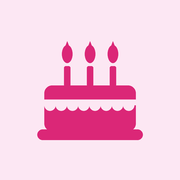
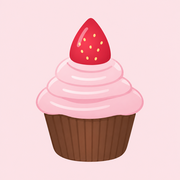
새 아이콘, 탭 줄·제목 줄 고정, 새로고침·BACK 버튼, 글꼴 줄, media v2
Claude-Session: https://claude.ai/code/session_017xK88kUsRgSTMmdWXH6KVr

Changed region(s): [[0.1944, 0.0833, 0.8056, 0.9167]]

diff --git a/index.html b/index.html
@@ -4,6 +4,7 @@
     <meta charset="UTF-8">
     <meta name="viewport" content="width=device-width, initial-scale=1.0">
     <title>MGWG - 마구와구 먹은 기록</title>
+    <script src="https://jjojjolonglong-sudo.github.io/mnmn/fonts.v1.js" data-app="mgwg"></script>
     <!-- 앱 설치(PWA) 설정 -->
     <link rel="manifest" href="manifest.webmanifest">
     <meta name="theme-color" content="#ffffff">
@@ -14,7 +15,7 @@
     <link rel="apple-touch-icon" href="apple-touch-icon.png">
     <link rel="icon" type="image/png" href="icon-192.png">
     <script src="https://jjojjolonglong-sudo.github.io/mnmn/config.js"></script>
-    <script src="https://jjojjolonglong-sudo.github.io/mnmn/media.v1.js"></script>
+    <script src="https://jjojjolonglong-sudo.github.io/mnmn/media.v2.js"></script>
     <!-- Tailwind CSS -->
     <script src="https://cdn.tailwindcss.com"></script>
     <!-- Google Fonts Inter -->
@@ -23,7 +24,7 @@
     <link rel="stylesheet" href="https://cdnjs.cloudflare.com/ajax/libs/font-awesome/6.4.0/css/all.min.css">
     <style>
         html, body {
-            overscroll-behavior-y: none; /* 1. 스크롤 텐션/바운스 현상 완전 제거 */
+            overscroll-behavior: none; /* 스크롤 끝 텐션(바운스)·당겨서 새로고침 막기 */
             -webkit-overflow-scrolling: touch;
         }
         body {
@@ -59,10 +60,8 @@
         @media (max-width: 1023px) {
             /* 디테일이 열리면 이미지 목록 숨김 */
             body.panel-open .list-col { display: none; }
-            body.panel-open main { padding-top: 0.25rem; padding-bottom: 0.5rem; }
-            body.panel-open .sub-head { padding-top: 0.375rem; padding-bottom: 0.375rem; margin-bottom: 0.25rem; }
-            body.panel-open .sub-head p { display: none; }
             body.panel-open [id$="SidePanel"] { margin-bottom: 0; }
+            .side-col:has(> .hidden) { display: none; } /* 패널이 닫혀 있으면 빈 칸 여백도 없애기 */
 
             .panel-card { padding: 0.25rem 0.875rem 0.875rem; }
             /* 제목 가운데 정렬 + 위 여백 축소 */
@@ -80,6 +79,12 @@
         #cr-sel{position:absolute;border:2px solid #fff;box-shadow:0 0 0 9999px #0008;cursor:move}
         #cr-rz{position:absolute;right:-9px;bottom:-9px;width:16px;height:16px;border-radius:50%;background:#db2777;border:2px solid #fff;cursor:nwse-resize}
         dialog::backdrop{background:#0006}
+        /* 상단(로고줄 64 + 탭줄 44 + 선 1) 고정, 제목줄은 그 바로 아래 고정 */
+        .sub-head{top:109px;height:68px;display:flex;align-items:center}
+        .sub-head>div{width:100%}
+        .side-col{top:189px}
+        .tabbtn{flex:1;height:32px;border-radius:.5rem;font-size:.75rem;font-weight:500;color:#737373}
+        .tabbtn.on{background:#fff;color:#171717;font-weight:600;box-shadow:0 1px 2px #0000000f}
     </style>
 </head>
 <body class="min-h-screen flex flex-col antialiased">
@@ -94,25 +99,27 @@
                 <span class="text-xl font-bold tracking-tight text-neutral-900">MGWG</span>
             </div>
 
-            <!-- Tab Navigation (항상 클릭 가능) -->
-            <nav class="flex space-x-1 bg-neutral-100 p-1 rounded-xl">
-                <button onclick="switchTab('ITEM')" id="tabItem" class="px-4 py-1.5 rounded-lg text-xs font-semibold bg-white text-neutral-900 shadow-xs transition-all">ITEM</button>
-                <button onclick="switchTab('SORT')" id="tabSort" class="px-4 py-1.5 rounded-lg text-xs font-medium text-neutral-500 hover:text-neutral-900 transition-all">SORT</button>
-                <button onclick="switchTab('STORE')" id="tabStore" class="px-4 py-1.5 rounded-lg text-xs font-medium text-neutral-500 hover:text-neutral-900 transition-all">STORE</button>
-            </nav>
             <div class="flex items-center gap-1">
                 <button id="migBtn" onclick="openMig()" class="hidden px-2 py-1.5 rounded-lg text-[11px] font-semibold bg-pink-50 text-pink-600 hover:bg-pink-100"><i class="fa-regular fa-images mr-1"></i><span id="migN"></span></button>
+                <button onclick="location.reload()" title="새로고침" class="w-8 h-8 rounded-lg text-neutral-400 hover:text-neutral-700 hover:bg-neutral-100 text-xs"><i class="fa-solid fa-rotate-right"></i></button>
                 <button onclick="logout()" title="로그아웃" class="w-8 h-8 rounded-lg text-neutral-400 hover:text-neutral-700 hover:bg-neutral-100 text-xs"><i class="fa-solid fa-right-from-bracket"></i></button>
             </div>
+        </div>
+        <div class="max-w-5xl mx-auto px-4 h-11">
+            <nav class="max-w-4xl mx-auto flex gap-1 bg-neutral-100 p-1 rounded-xl">
+                <button onclick="switchTab('ITEM')" id="tabItem" class="tabbtn on">ITEM</button>
+                <button onclick="switchTab('SORT')" id="tabSort" class="tabbtn">SORT</button>
+                <button onclick="switchTab('STORE')" id="tabStore" class="tabbtn">STORE</button>
+            </nav>
         </div>
     </header>
 
     <!-- Main Content Area -->
-    <main class="flex-1 max-w-5xl w-full mx-auto px-4 py-6">
+    <main class="flex-1 max-w-5xl w-full mx-auto px-4 pb-6">
 
         <!-- ==================== ITEM TAB VIEW ==================== -->
         <div id="viewItem" class="tab-view">
-            <div class="sub-head sticky top-16 z-20 bg-neutral-50 -mx-4 px-4 py-3 mb-3">
+            <div class="sub-head sticky z-20 bg-neutral-50 -mx-4 px-4 mb-3">
                 <div class="flex items-center justify-between max-w-4xl mx-auto">
                     <div>
                         <h1 class="text-lg font-bold text-neutral-900">마구와구 먹은 기록</h1>
@@ -136,7 +143,7 @@
                         <p class="text-xs text-neutral-500 mt-1">상단의 'ITEM 추가' 버튼을 눌러 첫 미식 기록을 남겨보세요!</p>
                     </div>
                 </div>
-                <div class="order-1 lg:order-2 w-full max-w-[600px] mx-auto lg:sticky lg:top-[8.5rem]">
+                <div class="order-1 lg:order-2 w-full max-w-[600px] mx-auto side-col lg:sticky">
                     <div id="itemSidePanel" class="hidden w-full max-w-[600px] mx-auto mb-6"></div>
                 </div>
             </div>
@@ -144,7 +151,7 @@
 
         <!-- ==================== SORT TAB VIEW ==================== -->
         <div id="viewSort" class="tab-view hidden">
-            <div class="sub-head sticky top-16 z-20 bg-neutral-50 -mx-4 px-4 py-3 mb-3">
+            <div class="sub-head sticky z-20 bg-neutral-50 -mx-4 px-4 mb-3">
                 <div class="flex items-center justify-between max-w-4xl mx-auto">
                     <div>
                         <h1 class="text-lg font-bold text-neutral-900">마구와구 먹은 메뉴</h1>
@@ -167,7 +174,7 @@
                         <p class="text-xs text-neutral-500 mt-1">상단의 'SORT 추가' 버튼을 눌러 분류를 만들어보세요!</p>
                     </div>
                 </div>
-                <div class="order-1 lg:order-2 w-full max-w-[600px] mx-auto lg:sticky lg:top-[8.5rem]">
+                <div class="order-1 lg:order-2 w-full max-w-[600px] mx-auto side-col lg:sticky">
                     <div id="sortSidePanel" class="hidden w-full max-w-[600px] mx-auto mb-6"></div>
                 </div>
             </div>
@@ -175,7 +182,7 @@
 
         <!-- ==================== STORE TAB VIEW ==================== -->
         <div id="viewStore" class="tab-view hidden">
-            <div class="sub-head sticky top-16 z-20 bg-neutral-50 -mx-4 px-4 py-3 mb-3">
+            <div class="sub-head sticky z-20 bg-neutral-50 -mx-4 px-4 mb-3">
                 <div class="flex items-center justify-between max-w-4xl mx-auto">
                     <div>
                         <h1 class="text-lg font-bold text-neutral-900">마구와구 먹은 가게</h1>
@@ -198,7 +205,7 @@
                         <p class="text-xs text-neutral-500 mt-1">상단의 'STORE 추가' 버튼을 눌러 가게를 등록해보세요!</p>
                     </div>
                 </div>
-                <div class="order-1 lg:order-2 w-full max-w-[600px] mx-auto lg:sticky lg:top-[8.5rem]">
+                <div class="order-1 lg:order-2 w-full max-w-[600px] mx-auto side-col lg:sticky">
                     <div id="storeSidePanel" class="hidden w-full max-w-[600px] mx-auto mb-6"></div>
                 </div>
             </div>
@@ -267,7 +274,7 @@
             if (SES.expires_at - Date.now() < 60000) { rfP = rfP || gotrue('refresh_token', { refresh_token: SES.refresh_token }).then(saveSes).finally(() => { rfP = null; }); await rfP; }
             return SES.access_token;
         }
-        if (window.Media) Media.init({ getToken: token });
+        if (window.Media) Media.init({ app: 'mgwg', getToken: token });
         async function rest(method, path, body, prefer) {
             const r = await fetch(SB + '/rest/v1/' + path, { method, headers: { apikey: ANON, Authorization: 'Bearer ' + await token(), 'Content-Type': 'application/json', Prefer: prefer || 'return=minimal' }, body: body ? JSON.stringify(body) : undefined });
             const t = await r.text(); let j = null; try { j = t ? JSON.parse(t) : null; } catch (e) {}
@@ -393,45 +400,45 @@
 
         function switchTab(tabName) {
             document.querySelectorAll('.tab-view').forEach(el => el.classList.add('hidden'));
-            document.getElementById('tabItem').className = "px-4 py-1.5 rounded-lg text-xs font-medium text-neutral-500 hover:text-neutral-900 transition-all bg-transparent shadow-none";
-            document.getElementById('tabSort').className = "px-4 py-1.5 rounded-lg text-xs font-medium text-neutral-500 hover:text-neutral-900 transition-all bg-transparent shadow-none";
-            document.getElementById('tabStore').className = "px-4 py-1.5 rounded-lg text-xs font-medium text-neutral-500 hover:text-neutral-900 transition-all bg-transparent shadow-none";
+            document.getElementById('tabItem').classList.remove('on');
+            document.getElementById('tabSort').classList.remove('on');
+            document.getElementById('tabStore').classList.remove('on');
 
             closeAllSidePanels();
             panelScrollY = 0;
 
             if (tabName === 'ITEM') {
                 document.getElementById('viewItem').classList.remove('hidden');
-                document.getElementById('tabItem').className = "px-4 py-1.5 rounded-lg text-xs font-semibold bg-white text-neutral-900 shadow-xs transition-all";
+                document.getElementById('tabItem').classList.add('on');
                 renderItems();
             } else if (tabName === 'SORT') {
                 document.getElementById('viewSort').classList.remove('hidden');
-                document.getElementById('tabSort').className = "px-4 py-1.5 rounded-lg text-xs font-semibold bg-white text-neutral-900 shadow-xs transition-all";
+                document.getElementById('tabSort').classList.add('on');
                 renderSorts();
             } else if (tabName === 'STORE') {
                 document.getElementById('viewStore').classList.remove('hidden');
-                document.getElementById('tabStore').className = "px-4 py-1.5 rounded-lg text-xs font-semibold bg-white text-neutral-900 shadow-xs transition-all";
+                document.getElementById('tabStore').classList.add('on');
                 renderStores();
             }
         }
 
-        // 헤더: 모바일에서는 제목 가운데 정렬 + 우측 X만 노출, 액션 버튼은 하단(panel-foot)으로 이동
+        // 패널 제목줄(가운데 제목만). 버튼은 하단(panel-foot)에 두고 맨 끝에 BACK을 붙여요
+        // BACK: 편집 화면 → 상세 화면으로, 추가·상세 화면 → 패널 닫기
         let lastPanelActions = '';
         function panelHeader(title, actionsHtml) {
-            lastPanelActions = actionsHtml || '';
+            const [ty, mode] = title.split(' ');
+            const back = mode === 'EDIT' && currentEditingId ? `openDetailPanel('${ty}', '${currentEditingId}')` : 'closeAllSidePanels()';
+            lastPanelActions = (actionsHtml || '') + `<button type="button" onclick="${back}" class="px-3 py-1.5 bg-neutral-100 hover:bg-neutral-200 text-neutral-600 font-semibold rounded-lg text-[11px]">BACK</button>`;
             return `
                 <div class="panel-head">
                     <h2 class="panel-title text-sm font-bold text-neutral-900 truncate">${title}</h2>
-                    <div class="flex items-center gap-1.5 shrink-0">
-                        <button type="button" onclick="closeAllSidePanels()" class="w-7 h-7 rounded-full bg-neutral-100 hover:bg-neutral-200 text-neutral-600 flex items-center justify-center text-xs"><i class="fa-solid fa-xmark"></i></button>
-                    </div>
                 </div>`;
         }
 
         function panelWrapper(contentHtml) {
             const foot = lastPanelActions ? `<div class="panel-foot">${lastPanelActions}</div>` : '';
             lastPanelActions = '';
-            return `<div class="panel-card bg-white rounded-xl border border-neutral-200 shadow-sm w-full max-w-lg lg:max-h-[calc(100vh-10.5rem)] lg:overflow-y-auto relative">${contentHtml}${foot}</div>`;
+            return `<div class="panel-card bg-white rounded-xl border border-neutral-200 shadow-sm w-full max-w-lg lg:max-h-[calc(100vh-205px)] lg:overflow-y-auto relative">${contentHtml}${foot}</div>`;
         }
 
         function closeAllSidePanels() {

diff --git a/sw.js b/sw.js
@@ -1,4 +1,4 @@
-const V='mgwg-v2',A=['./','index.html','manifest.webmanifest','icon-192.png','icon-512.png','apple-touch-icon.png'];
+const V='mgwg-v3',A=['./','index.html','manifest.webmanifest','icon-192.png','icon-512.png','apple-touch-icon.png','icon-maskable-512.png'];
 self.addEventListener('install',e=>e.waitUntil(caches.open(V).then(c=>Promise.allSettled(A.map(u=>c.add(u)))).then(()=>self.skipWaiting())));
 self.addEventListener('activate',e=>e.waitUntil(caches.keys().then(k=>Promise.all(k.filter(x=>x!=V).map(x=>caches.delete(x)))).then(()=>clients.claim())));
 // 네트워크 우선, 오프라인일 때만 저장본. 외부(Supabase/Worker) 요청은 건드리지 않음
